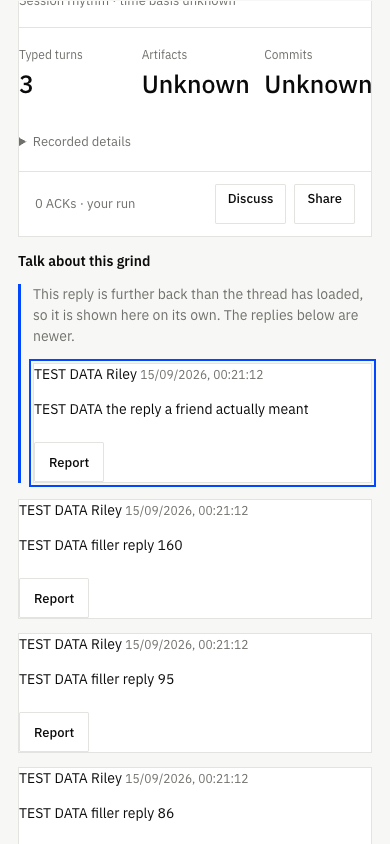
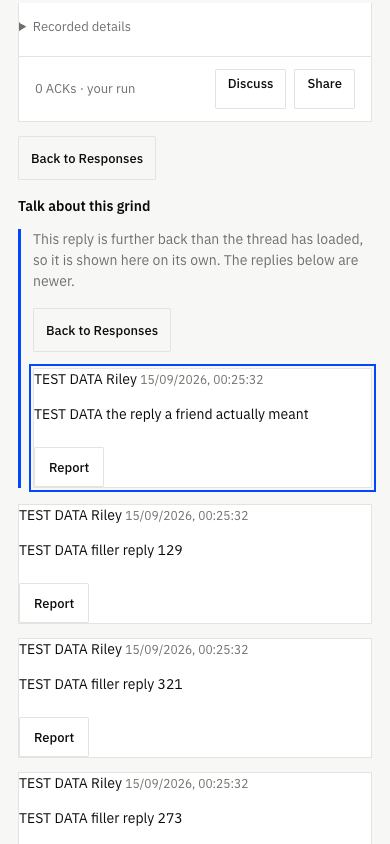
Review pass: export line names reach, notes and route; walk proves the start-time dedupe fallback and Back to Responses on the direct card

diff --git a/site/index.html b/site/index.html
@@ -1514,7 +1514,7 @@ function importRun(){
     <div class="panel">
       ${rows.map(r=>`<div class="p-row"><span>${r[0]}</span><span class="v"><b>${esc(String(r[1]))}</b></span></div>`).join('')}</div>
     <div class="panel"><div class="pad">
-    <p class="hint export-contents" style="margin:0 0 12px">${sample?'This sample':'This export'} carries only: the project folder name, counts, timing, the activity trace${run.coach_verdict||run.coach_plan?', the coach\'s sentences':''}${run.rig_mcps!=null||run.rig_skills!=null?', how many MCPs and skills your rig has':''}. It never carries prompts, code or file paths. MCP names travel only if you tick the box below. Rig counts and notes are saved to your profile even when the run is Only me.</p>
+    <p class="hint export-contents" style="margin:0 0 12px">${sample?'This sample':'This export'} carries only: the project folder name, counts, timing, the activity trace and route as numbers${run.reach_reason?', one sentence about reach':''}${run.coach_verdict||run.coach_plan||run.coach_experiment?', the coach\'s sentences':''}${run.rig_mcps!=null||run.rig_skills!=null?', how many MCPs and skills your rig has':''}${run.rig_notes?', the stack notes you wrote':''}. It never carries prompts, code or file paths. MCP names travel only if you tick the box below. Rig counts and notes are saved to your profile even when the run is Only me.</p>
     <details><summary>Inspect all imported fields</summary><pre style="white-space:pre-wrap;overflow-wrap:anywhere">${esc(JSON.stringify(run,null,2))}</pre></details><p class="hint" style="margin:12px 0">Review the imported details and any tool names you choose to share before publishing.</p>
     <label>What did you build?<input id="i_title" maxlength="120" required placeholder="Title you write, not scraped" value="${esc(run.project||'')} session"></label>
     <label>Short caption<textarea id="i_caption" maxlength="280" required placeholder="What changed in this session?"></textarea></label>

diff --git a/scripts/check-post-recovery.py b/scripts/check-post-recovery.py
@@ -39,7 +39,7 @@ ARTIFACTS.mkdir(parents=True, exist_ok=True)
 HOST = round2.HOST
 
 
-def capture(revision: str, started: str):
+def capture(revision, started: str):
     payload = {
         "schema_version": 1,
         "harness": "Cursor",
@@ -48,10 +48,12 @@ def capture(revision: str, started: str):
         "duration_s": 600,
         "tool_calls": 9,
         "started": started,
-        "measurement_revision": revision,
         "rig_mcps": 2,
         "rig_skills": 1,
+        "rig_notes": "TEST DATA stack notes",
     }
+    if revision:
+        payload["measurement_revision"] = revision
     return "#import=" + quote(base64.b64encode(json.dumps(payload).encode()).decode(), safe="")
 
 
@@ -151,7 +153,7 @@ def main():
             my_runs(cp)
             cp.get_by_role("heading", name="Preview your run").wait_for()
             contents = cp.inner_text(".export-contents")
-            check("project folder name" in contents and "never carries prompts, code or file paths" in contents and "how many MCPs and skills" in contents, "preview: says in words what the export carries and what it never carries: " + contents[:80])
+            check("project folder name" in contents and "route as numbers" in contents and "never carries prompts, code or file paths" in contents and "how many MCPs and skills" in contents and "the stack notes you wrote" in contents, "preview: says in words what the export carries and what it never carries: " + contents[:80])
             cp.fill("#i_title", "TEST DATA recovery session")
             cp.fill("#i_caption", "TEST DATA: caption typed before the connection dropped.")
             cp.select_option("#i_vis", "public")
@@ -194,10 +196,12 @@ def main():
             check("already saved" in again and "not applied" in again, "re-save: opens the existing run and says the new caption was not applied: " + again[:100])
             rows = my_runs(cp)
             check(len(rows) == 1 and rows[0]["caption"] == "TEST DATA: caption typed before the connection dropped.", "re-save: still one run with the first caption")
+            cp.get_by_text("No replies yet").wait_for()
             shot(cp, "03-resave-opens-existing-mobile.png")
 
             # 3. Lost response: the insert lands, the browser never hears back.
-            second = capture("d" * 64, "2026-09-14T21:00:00+00:00")
+            # No measurement revision on this export: the start time + harness fallback must dedupe.
+            second = capture(None, "2026-09-14T21:00:00+00:00")
             cp.goto(base + "/" + second)
             settle(cp, "test-casey")
             cp.get_by_role("heading", name="Preview your run").wait_for()
@@ -217,7 +221,7 @@ def main():
             cp.wait_for_function("document.getElementById('status').textContent.includes('already saved')")
             rows = my_runs(cp)
             lost_id = cp.url.split("run=", 1)[1].split("&", 1)[0]
-            check(len(rows) == 2 and any(r["id"] == lost_id and r["measurement_revision"] == "d" * 64 for r in rows), "lost response: Try again found the saved run instead of posting a duplicate (rows " + str(len(rows)) + ")")
+            check(len(rows) == 2 and any(r["id"] == lost_id and r["measurement_revision"] is None for r in rows), "lost response: Try again found the saved run by start time and harness instead of posting a duplicate (rows " + str(len(rows)) + ")")
             check("Only me" in cp.inner_text("#status"), "lost response: the status names the audience the run was saved with")
             shot(cp, "05-lost-response-found-mobile.png")
 
@@ -235,6 +239,7 @@ def main():
             check(len(str(oldest)) == 36, "cap: the target reply exists (" + str(oldest)[:36] + ")")
             filler = rp.evaluate("""async (args) => { const rows=[...Array(330)].map((_,i)=>({run_id:args.run, author_id:args.me, body:'TEST DATA filler reply '+(i+1)})); const {data,error}=await sb.from('grinder_replies').insert(rows).select('id'); return error?error.message:data.length; }""", {"run": run_id, "me": riley})
             check(filler == 330, "cap: 330 newer TEST DATA replies inserted (got " + str(filler) + ")")
+            cp.evaluate("sessionStorage.setItem('ag_response_return','?inbox')")
             cp.goto(base + f"/?run={run_id}&reply={oldest}#reply-{oldest}")
             settle(cp, "test-casey")
             try:
@@ -249,6 +254,7 @@ def main():
             check(cp.locator(".reply-missing").count() == 0, "cap: no removed claim for a reply that exists")
             check("shown here on its own" in cp.inner_text(".reply-direct") and "the reply a friend actually meant" in cp.inner_text(".reply-direct"), "cap: the direct card explains itself and carries the reply body")
             check(cp.evaluate("() => document.activeElement && document.activeElement.id === 'reply-" + str(oldest) + "'"), "cap: focus lands on the exact reply")
+            check(cp.locator(".reply-direct").get_by_role("link", name="Back to Responses").count() == 1, "cap: Back to Responses is offered on the direct card")
             cp.screenshot(path=str(ARTIFACTS / "07-exact-reply-beyond-cap-mobile.png"), full_page=False)
             ghost = str(uuid.uuid4())
             cp.goto(base + f"/?run={run_id}&reply={ghost}#reply-{ghost}")

diff --git a/tests/test_post_recovery.py b/tests/test_post_recovery.py
@@ -41,7 +41,8 @@ def test_a_failed_rig_update_never_reads_as_a_failed_save():
 
 def test_the_preview_names_what_the_export_carries_and_matches_the_allowlist():
     assert 'class="hint export-contents"' in IMPORT
-    assert "the project folder name, counts, timing, the activity trace" in IMPORT
+    assert "the project folder name, counts, timing, the activity trace and route as numbers" in IMPORT
+    assert "one sentence about reach" in IMPORT and "the stack notes you wrote" in IMPORT
     assert "It never carries prompts, code or file paths." in IMPORT
     assert "MCP names travel only if you tick the box below." in IMPORT
     assert "saved to your profile even when the run is Only me" in IMPORT
@@ -82,7 +83,7 @@ def test_the_browser_walk_covers_the_journey():
     for needle in (
         'route.abort("connectionfailed")',
         "no automatic retry fired",
-        "lost response: Try again found the saved run instead of posting a duplicate",
+        "lost response: Try again found the saved run by start time and harness",
         "re-save: opens the existing run",
         "This import link is incomplete",
         "cap: the exact reply past the 12-page load is rendered directly",

diff --git a/docs/round2/NIGHT-RETURN.md b/docs/round2/NIGHT-RETURN.md
@@ -12,17 +12,17 @@
 | Same capture twice | second row | lookup by measurement revision (or start + harness) before insert and on 23505; existing run opens, caption not applied is said |
 | Insert landed, response lost | duplicate on retry | Try again finds the saved run |
 | Rig update fails after save | read as failed save | run opens; note says rig counts not updated |
-| What the export contains | only a JSON dump behind a disclosure | one line in words, pinned to `push.py` allowlist by test |
+| What the export contains | only a JSON dump behind a disclosure | one line in words (folder name, counts, timing, trace and route as numbers, reach sentence, coach sentences, rig counts, stack notes; never prompts, code or paths), pinned to `push.py` allowlist by test. Probed: `export_run(samples/sample_run.json)` ships `route` as a list of small integers |
 | Chopped import link | silent landing page | "This import link is incomplete", nothing posted |
 | Exact reply past cap | "removed" (dishonest) | rendered directly from the id lookup; cap 40 → 12 pages |
 | Reply the lookup cannot see | "removed or no longer available" | "removed or not visible to you" |
 
 ## Tests
 
-- `scripts/check-post-recovery.py` 28/28 (new; disposable PGlite, TEST DATA, phone viewport, POST counter proves no silent retry).
+- `scripts/check-post-recovery.py` 29/29 (new; disposable PGlite, TEST DATA, phone viewport, POST counter proves no silent retry; the lost-response capture carries no measurement revision, so the start time + harness fallback is the path proven there).
 - pytest 347 passed 1 skipped (baseline here 322/6 skipped, venv lacked playwright; system python3 has it).
 - `check-round2-integration.py` 40/40 · `check-response-return.py` pass · `check-social-loop.py` pass · `dev.py check` pass.
-- Eight screenshots inspected by eye and committed under `docs/round2/screens/completion/`. Two walk-side fixes during the night: fixture seeds one Casey run (excluded from counts); 12 pages after page one is 325, so the deep target is seeded at 331.
+- All eight screenshots opened and read one by one, then committed under `docs/round2/screens/completion/`. Two walk-side fixes during the night: fixture seeds one Casey run (excluded from counts); 12 pages after page one is 325, so the deep target is seeded at 331.
 
 ## Actual user outcome
 
@@ -33,8 +33,9 @@ None with a real person. Everything above is local disposable data. No hosted OA
 - Manual post form (`wireComposer`) has no duplicate guard: no natural key. Out of this journey.
 - Exports without `measurement_revision` and without `started`+`harness` (schema_version 0 without a start) cannot be deduplicated; the recovery card says so and points to Your runs.
 - Direct render shows the reply out of sequence; earlier replies around it are not loaded.
-- Fleet ACK rejected as unregistered (session 080cddbb); reported once.
+- No unique constraint exists on runs, so the 23505 branch in the save handler is defensive only; the pre-insert lookup is what dedupes.
+- Fleet ACK rejected as unregistered for this session; reported once.
 
 ## Exact next step
 
-Coordinator reviews PR #15. If accepted, merge to main; no deploy from this lane. Then run `docs/round2/STRANGER-TRIAL-5MIN.md` with one person who is not Oscar.
+Coordinator reviews PR #15. If accepted, merge to main; no deploy from this lane. Then run `docs/round2/STRANGER-TRIAL-5MIN.md` with one person who is not the owner.

diff --git a/docs/round2/night-completion-STATUS.md b/docs/round2/night-completion-STATUS.md
@@ -5,7 +5,7 @@ Baseline main `dad083e` (merge of PR #14). Read `FINAL-REVIEW.json` (restart-203
 
 ## 2026-09-15 · start
 
-- Fleet ACK for rev e2daf56ba4f1 rejected as unregistered (session 080cddbb). Recorded once, not retried.
+- Fleet ACK for rev e2daf56ba4f1 rejected as unregistered (this session). Recorded once, not retried.
 - `python3 scripts/dev.py setup` completed in this worktree (venv + npm).
 - Identity, people, account recovery and Responses return are complete on main (FINAL-REVIEW.json R2-01..03 fixed). Not rebuilt here.
 - Trace of the capture > preview > post path as committed (`site/index.html` importRun, `site/social.js` thread):
@@ -21,3 +21,9 @@ Baseline main `dad083e` (merge of PR #14). Read `FINAL-REVIEW.json` (restart-203
 - `scripts/check-post-recovery.py` 28/28, artifacts `/tmp/agentic-strava-post-recovery`, eight phone screenshots inspected and copied to `docs/round2/screens/completion/`. First runs found two walk bugs, not product bugs: the fixture seeds one run for Casey (now excluded), and page one plus 12 pages is 325 so the target must sit past 325 (331 seeded).
 - pytest 347 passed 1 skipped (baseline in this worktree before changes: 322 passed 6 skipped, with the six skips from a venv without playwright; system python3 has it). round2 walk 40/40, response-return pass, social loop pass, `dev.py check` pass.
 - Next: stranger script, push, draft PR, NIGHT-RETURN.md.
+
+## 2026-09-15 · completion
+
+- Review pass added: the export line now names the reach sentence, stack notes and the route as numbers (probed with `export_run` on `samples/sample_run.json`); the walk proves the start time + harness dedupe fallback on an export without a measurement revision, and Back to Responses on the direct reply card. All eight screenshots read one by one.
+- Walk 29/29 · pytest 347 passed 1 skipped · round2 walk 40/40 · response-return · social loop · `dev.py check` all pass at the final head.
+- Draft PR #15 open, not merged, not deployed. NIGHT-RETURN.md written.
